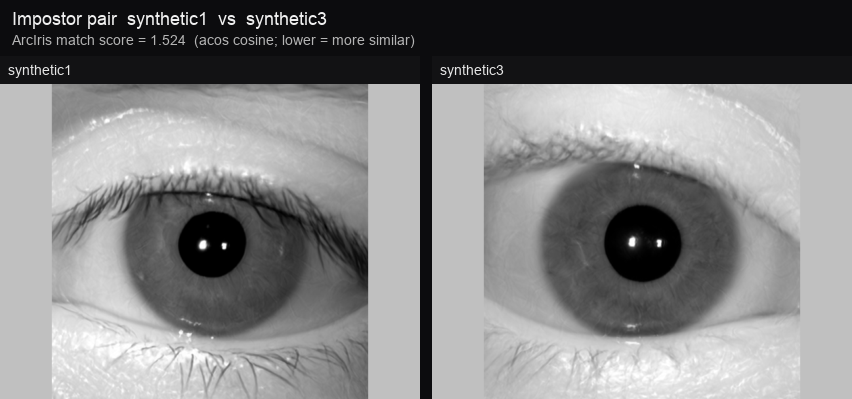
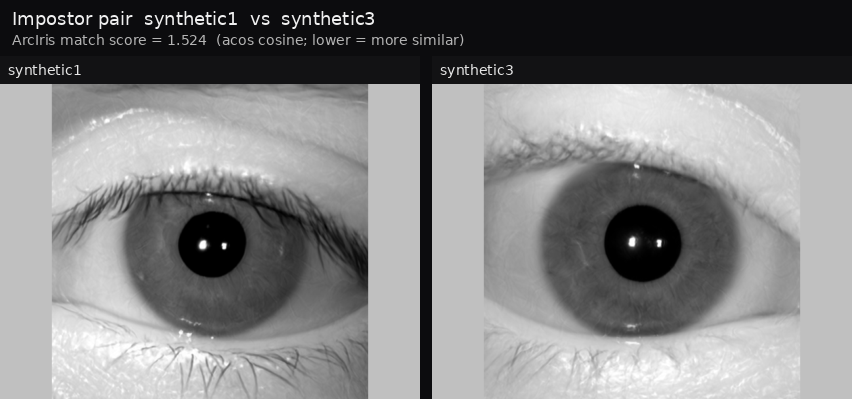
Advance Week 1 ArcIris pipeline for Adam's dataset drop.
Verify weights + synthetic dry-run in cloud, add genuine/impostor
distribution plots with d′, and document Week 1/data/ as the ingest path.

Changed region(s): [[0.0, 0.0301, 0.5493, 0.1203], [0.5188, 0.1504, 0.6103, 0.2105], [0.0, 0.1504, 0.0915, 0.2105]]

diff --git a/Week 1/arciris_analysis/plots.py b/Week 1/arciris_analysis/plots.py
@@ -1,0 +1,125 @@
+"""Genuine vs impostor score distributions and decidability (d')."""
+
+from __future__ import annotations
+
+import json
+from pathlib import Path
+
+import matplotlib
+
+matplotlib.use("Agg")
+import matplotlib.pyplot as plt
+import numpy as np
+
+
+def decidability(genuine: np.ndarray, impostor: np.ndarray) -> float | None:
+    """d' = |μ_g − μ_i| / sqrt(0.5 (σ_g² + σ_i²)). None if either side is empty."""
+    if genuine.size == 0 or impostor.size == 0:
+        return None
+    denom = float(np.sqrt(0.5 * (genuine.var(ddof=0) + impostor.var(ddof=0))))
+    if denom == 0:
+        return None
+    return float(abs(genuine.mean() - impostor.mean()) / denom)
+
+
+def score_arrays(pairwise: list[dict]) -> tuple[np.ndarray, np.ndarray]:
+    genuine = np.asarray(
+        [
+            float(row["_score"] if "_score" in row else row["score"])
+            for row in pairwise
+            if row.get("label") == "genuine"
+        ],
+        dtype=float,
+    )
+    impostor = np.asarray(
+        [
+            float(row["_score"] if "_score" in row else row["score"])
+            for row in pairwise
+            if row.get("label") == "impostor"
+        ],
+        dtype=float,
+    )
+    return genuine, impostor
+
+
+def write_distribution_plot(
+    pairwise: list[dict],
+    out_path: Path,
+    threshold: float | None = None,
+    title: str = "Genuine vs Impostor Score Distributions",
+) -> dict:
+    """Histogram overlay. Lower score = more similar (ArcIris acos)."""
+    genuine, impostor = score_arrays(pairwise)
+    d_prime = decidability(genuine, impostor)
+
+    out_path = Path(out_path)
+    out_path.parent.mkdir(parents=True, exist_ok=True)
+
+    fig, ax = plt.subplots(figsize=(9, 5.2))
+    bins = 40
+    if genuine.size:
+        ax.hist(
+            genuine,
+            bins=bins,
+            alpha=0.55,
+            density=True,
+            label=f"Genuine (n={genuine.size})",
+            color="tab:green",
+        )
+    if impostor.size:
+        ax.hist(
+            impostor,
+            bins=bins,
+            alpha=0.55,
+            density=True,
+            label=f"Impostor (n={impostor.size})",
+            color="tab:red",
+        )
+    if threshold is not None:
+        ax.axvline(
+            threshold,
+            color="black",
+            linestyle="--",
+            linewidth=1.2,
+            label=f"Tail / accept cut @ {threshold:.3f}",
+        )
+
+    ax.set_xlabel("ArcIris match score (acos cosine) — lower = more similar")
+    ax.set_ylabel("Density")
+    d_txt = f"{d_prime:.3f}" if d_prime is not None else "n/a (need both classes)"
+    ax.set_title(f"{title}\nd′ = {d_txt}")
+    ax.legend()
+    fig.tight_layout()
+    fig.savefig(out_path, dpi=140)
+    plt.close(fig)
+
+    stats = {
+        "n_genuine": int(genuine.size),
+        "n_impostor": int(impostor.size),
+        "genuine_mean": float(genuine.mean()) if genuine.size else None,
+        "genuine_std": float(genuine.std(ddof=0)) if genuine.size else None,
+        "impostor_mean": float(impostor.mean()) if impostor.size else None,
+        "impostor_std": float(impostor.std(ddof=0)) if impostor.size else None,
+        "decidability_d_prime": d_prime,
+        "threshold": threshold,
+        "plot": str(out_path),
+    }
+    return stats
+
+
+def write_distribution_outputs(
+    pairwise: list[dict],
+    out_dir: Path,
+    threshold: float | None = None,
+) -> dict:
+    out_dir = Path(out_dir)
+    plots_dir = out_dir / "plots"
+    stats = write_distribution_plot(
+        pairwise,
+        plots_dir / "genuine_impostor_distribution.png",
+        threshold=threshold,
+    )
+    (out_dir / "distribution_summary.json").write_text(
+        json.dumps(stats, indent=2) + "\n", encoding="utf-8"
+    )
+    return stats

diff --git a/Week 1/arciris_analysis/run_pipeline.py b/Week 1/arciris_analysis/run_pipeline.py
@@ -21,6 +21,7 @@ if str(HERE) not in sys.path:
 from embeddings import load_or_extract, save_embeddings_pickle, write_quality_flags
 from manifest import build_manifest_from_dir, index_by_id, load_manifest_csv, write_manifest
 from pairwise import pairwise_scores, write_pairwise_scores
+from plots import write_distribution_outputs
 from render import render_tail_pairs
 from tails import select_tail_pairs, image_tail_tracker, write_tail_outputs
 
@@ -146,6 +147,10 @@ def main() -> int:
         n_impostor=n_imp,
         n_genuine=n_gen,
     )
+    dist = write_distribution_outputs(records, out_dir, threshold=threshold)
+    d_prime = dist.get("decidability_d_prime")
+    d_txt = f"{d_prime:.3f}" if d_prime is not None else "n/a"
+    print(f"Distribution plot written (d′ = {d_txt}).")
     print(f"Impostor tail rule: {rule}")
     print(f"Tail pairs: {len(tail_pairs)}  |  tail images: {len(tail_images)}")
     for row in tail_images:

diff --git a/Week 1/Task 1 documentation/Task 1 documentation + some info.md b/Week 1/Task 1 documentation/Task 1 documentation + some info.md
@@ -9,21 +9,21 @@ current access status as of today.
 
 ## Current status
 
-- ✅ **Weights**: found — `https://notredame.app.box.com/s/3palriosrj34fzg2uok58p34au6rvenq`
-  (Box, not the Google Drive link the top-level `readme.md` mentions — two
-  different links point to the same models, use this one). Download and drop
-  the contents into `methods/ArcIris/Python/models/`.
-- ⏳ **Image dataset**: pending — Adam is sending you the actual dataset
-  directly. Until it arrives, the repo's own bundled samples
-  (`methods/ArcIris/Python/data/synthetic1.png`, `synthetic2.png`,
-  `synthetic3.png` — three StyleGAN3-synthetic, non-real iris images from
-  Tinsley/Czajka/Flynn's 2022 IJCB paper) are enough to prove the pipeline runs,
-  but not enough for a real genuine/impostor distribution or false-positive
-  analysis — three images, three different (fake) identities, one image each,
-  so there are **zero genuine pairs** in that sample set.
+- ✅ **Weights**: in place under
+  `Week 1/OpenSourceIrisRecognition/methods/ArcIris/Python/models/`
+  (`ResNet100_154000.pt`, `resnet18-…pth`). Source:
+  `https://notredame.app.box.com/s/3palriosrj34fzg2uok58p34au6rvenq`
+  (same files as the Google Drive folder in the ArcIris readme).
+- ✅ **Analysis pipeline**: `Week 1/arciris_analysis/` carries `image_id`
+  through embedding → pairwise scores → impostor-tail tracker → pair renders
+  → genuine/impostor distribution plot + d′. Synthetic dry-run already
+  re-verified on this machine.
+- ⏳ **Image dataset**: drop Adam’s labeled set into `Week 1/data/` (see that
+  folder’s README), or pass `--data-dir` / `--manifest`. Until then the
+  bundled synthetics (`synthetic1/2/3.png`) only prove the pipeline — three
+  fake identities, **zero genuine pairs**, so no real FP analysis yet.
 
-So right now you can do steps 1–2 below (setup, run the demo pipeline
-end-to-end, confirm it works). Steps 3 onward need Adam's dataset.
+Steps 3 onward still need Adam’s labeled images in `Week 1/data/`.
 
 ---
 

diff --git a/Week 1/arciris_analysis/README.md b/Week 1/arciris_analysis/README.md
@@ -59,16 +59,16 @@ unknown → 3 impostor pairs, 0 genuine. Tail = scores at or below the median.
 
 ## When Adam's dataset arrives
 
-1. Put images in a folder (or keep his folder layout).
-2. If he sends labels, save them as a CSV with the columns in `schema.md`
-   (`image_id,filepath,subject_id,eye,session`).
-3. Run:
+1. Drop images into `Week 1/data/` (preferred) or keep his folder layout.
+2. If he sends labels, save them as `Week 1/data/manifest.csv` with the
+   columns in `schema.md` (`image_id,filepath,subject_id,eye,session`).
+3. Run (any Python with the packages in `requirements.txt`):
 
 ```bash
-/Users/odon/mamba/envs/arciris/bin/python \
+python3 \
   "Week 1/arciris_analysis/run_pipeline.py" \
-  --data-dir "/path/to/adam/images" \
-  --manifest "/path/to/adam/manifest.csv" \
+  --data-dir "Week 1/data" \
+  --manifest "Week 1/data/manifest.csv" \
   --out-dir "Week 1/Task 1 results"
 ```
 
@@ -88,5 +88,7 @@ Outputs land in `Week 1/Task 1 results/`:
 | `impostor_tail_images.csv` | **image-level tracker** |
 | `impostor_tail_summary.json` | threshold + rule used |
 | `impostor_images/` | tail-pair renders |
+| `plots/genuine_impostor_distribution.png` | genuine vs impostor hist + d′ |
+| `distribution_summary.json` | means, stds, decidability |
 
 See `schema.md` for column definitions.

diff --git a/Week 1/arciris_analysis/schema.md b/Week 1/arciris_analysis/schema.md
@@ -64,3 +64,12 @@ One row per `image_id` that appears in at least one tail pair.
 
 Query: *which images fell on the left (low-score) tail of the impostor
 distribution?* → every row of this file.
+
+## `distribution_summary.json` + `plots/genuine_impostor_distribution.png`
+
+Overlay histogram of genuine vs impostor ArcIris scores (lower = more similar)
+and decidability
+
+`d′ = |μ_g − μ_i| / sqrt(0.5 (σ_g² + σ_i²))`.
+
+`d′` is `null` when either class is empty (e.g. the three synthetics).

diff --git a/Week 1/data/README.md b/Week 1/data/README.md
@@ -1,0 +1,15 @@
+# Adam’s iris image set (drop here)
+
+Put the labeled images (and optional `manifest.csv`) in this folder, then run:
+
+```bash
+python3 "Week 1/arciris_analysis/run_pipeline.py" \
+  --data-dir "Week 1/data" \
+  --manifest "Week 1/data/manifest.csv" \
+  --out-dir "Week 1/Task 1 results"
+```
+
+Omit `--manifest` if subject/eye can be parsed from filenames or folder layout
+(see `Week 1/arciris_analysis/schema.md`).
+
+Do **not** commit raw iris images to git.
